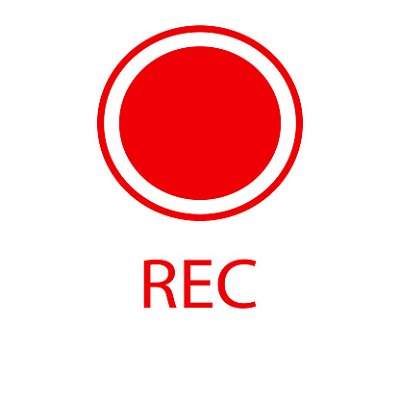
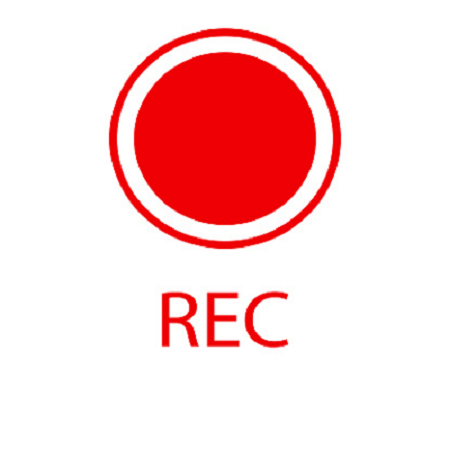
Updates!

diff --git a/test code/gui_test/main.py b/test code/gui_test/main.py
@@ -1,54 +1,65 @@
 import PySimpleGUI as sg
+import serial
 from datetime import datetime
 
 # Great site: https://pysimplegui.readthedocs.io/en/latest/call%20reference/#button-element
 
 # Define the window's contents
 temp = hum = light = gHum = ph = -1.0
+red = green = blue = 0
+picker = False
+down = True
 
 # Faucet control
 f_water = f_fertilizer = False
 
-column_names = [
-    [sg.Frame(title='', background_color='green', relief=sg.RELIEF_RAISED, layout=[
-        [sg.Text(text='Ph', justification='center', font='david 30 normal', size=(10, 2), text_color='dark grey')]]),
-     sg.Frame(title='', relief=sg.RELIEF_SOLID, background_color='brown', layout=[
-         [sg.Text(text='לחות - אדמה', justification='center', size=(10, 2), font='david 30 normal',
-                  text_color='brown')]]),
-     sg.Frame(title='', background_color='yellow', relief=sg.RELIEF_RAISED, layout=[
-         [sg.Text(text='אור', justification='center', font='david 30 normal', size=(10, 2), text_color='yellow')]]),
-     sg.Text(text='לחות - אויר', justification='center', font='david 30 normal', size=(10, 2)),
-     sg.Text(text='טמפרטורה', justification='center', font='david 30 normal', size=(10, 2), text_color='pink')],
-    # New row, now we show values
-    [sg.Frame(title='', relief=sg.RELIEF_SUNKEN, background_color='green', layout=[
-        [sg.Text(text='loading...', justification='center', k='-PH-', font='david 30 normal', size=(10, 2),
-                 text_color='dark grey')]]),
-     sg.Frame(title='', relief=sg.RELIEF_GROOVE, background_color='brown', layout=[
-         [sg.Text(text='loading...', justification='center', k='-gHum-', font='david 30 normal', size=(10, 2),
-                  text_color='brown')]]),
-     sg.Frame(title='', background_color='yellow', relief=sg.RELIEF_RAISED, layout=[
-         [sg.Text(text='loading...', justification='center', k='-light-', font='david 30 normal', size=(10, 2),
-                  text_color='yellow')]]),
-     sg.Text(text='loading...', justification='center', k='-hum-', font='david 30 normal', size=(10, 2)),
-     sg.Text(text='loading...', justification='center', k='-temp-', font='david 30 normal', size=(10, 2),
-             text_color='pink')]]
+ser = serial.Serial('COM9', 9600, timeout=0, parity=serial.PARITY_NONE,
+                        stopbits=serial.STOPBITS_ONE,
+                        bytesize=serial.EIGHTBITS,
+                        xonxoff=False,
+                        rtscts=False,
+                        write_timeout=None,
+                        dsrdtr=False,
+                        inter_byte_timeout=None,
+                        exclusive=None)
 
-column_light = [[sg.Button(button_text='החל', font='david 30 normal'),
-                 sg.Input(tooltip='הכניסו ערך בין 0 ל255', justification='center', k='-BLUE-', size=(10, 1),
-                          default_text='0',
-                          background_color='light blue', font='david 30 normal'),
-                 sg.Text(text=':כחול', justification='center', size=(5, 1), text_color='light blue',
-                         font='david 30 normal'),
+column_names = [
+    [sg.Text(text='Ph', justification='center', font='david 30 normal', size=(10, 2), pad=(10, 10), text_color='black'),
+     sg.Text(text='לחות - אדמה', justification='center', size=(10, 2), pad=(14, 10), font='david 30 normal',
+             text_color='black'),
+     sg.Text(text='אור', justification='center', font='david 30 normal', size=(10, 2), pad=(12, 10),
+             text_color='black'),
+     sg.Text(text='לחות - אויר', justification='center', font='david 30 normal', size=(10, 2), pad=(12, 10),
+             text_color='black'),
+     sg.Text(text='טמפרטורה', justification='center', font='david 30 normal', size=(10, 2), pad=(14, 10),
+             text_color='black')],
+    # New row, now we show values
+    [sg.Frame(title='', relief=sg.RELIEF_RAISED, background_color='grey', layout=[
+        [sg.Text(text='loading...', justification='center', k='-PH-', font='david 30 normal', size=(10, 1),
+                 text_color='black')]]),
+     sg.Frame(title='', relief=sg.RELIEF_RAISED, background_color='grey', vertical_alignment='center', layout=[
+         [sg.Text(text='loading...', justification='center', k='-gHum-', font='david 30 normal', size=(10, 1),
+                  text_color='black')]]),
+     sg.Frame(title='', background_color='grey', relief=sg.RELIEF_RAISED, layout=[
+         [sg.Text(text='loading...', justification='center', k='-light-', font='david 30 normal', size=(10, 1),
+                  text_color='black')]]),
+     sg.Frame(title='', background_color='grey', relief=sg.RELIEF_RAISED, layout=[
+         [sg.Text(text='loading...', justification='center', k='-hum-', font='david 30 normal', size=(10, 1),
+                  text_color='black')]]),
+     sg.Frame(title='', background_color='grey', relief=sg.RELIEF_RAISED, layout=[
+         [sg.Text(text='loading...', justification='center', k='-temp-', font='david 30 normal', size=(10, 1),
+                  text_color='black')]])]]
+
+column_light = [[sg.Button(button_text='החל', font='david 30 normal', k='-UPDATE-'),
+                 sg.Input(default_text='0', tooltip='הכניסו ערך בין 0 ל255', justification='center', k='-BLUE-',
+                          size=(10, 1), background_color='light blue', font='david 30 normal'),
                  sg.Input(tooltip='הכניסו ערך בין 0 ל255', justification='center', k='-GREEN-', size=(10, 1),
-                          default_text='0',
-                          background_color='light green', font='david 30 normal'),
-                 sg.Text(text=':ירוק', justification='center', size=(5, 1), text_color='light green',
-                         font='david 30 normal'),
+                          default_text='0', background_color='light green', font='david 30 normal'),
                  sg.Input(tooltip='הכניסו ערך בין 0 ל255', justification='center', k='-RED-', size=(10, 1),
-                          default_text='0',
-                          background_color='red', font='david 30 normal'),
-                 sg.Text(text=':אדום', justification='center', size=(5, 1), text_color='red', font='david 30 normal'),
-                 sg.Text(text=':תאורה', justification='center', size=(5, 1), font='david 30 normal')]]
+                          default_text='0', background_color='red', font='david 30 normal'),
+                 sg.Text(' או ', font='david 30 normal'),
+                 sg.Text('#000000', font='david 30 normal', visible=False, k='-C-'),
+                 sg.ColorChooserButton('בחר צבע', image_filename='color.png', image_subsample=5, k='-COLOR-', target='-C-')]]
 
 column_btnControls = [
     [sg.Button(k='-WATER-', image_filename='faucet-image-off.png', image_size=(150, 150),
@@ -56,26 +67,39 @@ column_btnControls = [
      sg.Button(k='-FERTILIZER-', image_filename='fertilizer-png-off.png', image_size=(150, 150),
                tooltip='לחצו כאן כדי לפתוח או לסגור את ברז הדשן', image_subsample=3)]]
 
-column_recording = [[sg.Button(image_filename='record-image.png', image_size=(100, 100), k='-RECORD-',
-                               tooltip='לחצו כאן כדי להתחיל הקלטת נתונים', image_subsample=4),
-                     sg.OptionMenu(values=["פעם בדקה", "פעם ב-5 דקות", "פעם ב-10 דקות"], s=30),
-                     sg.Text(text=':תדירות הקלטה', font='david 30 normal'),
-                     sg.Button(image_filename='upload-image.png', image_size=(100, 100), k='-UPLOAD-',
-                               tooltip='לחצו כאן כדי לבחור תכנית פעולה')]]
-
-column_heading = [
-    [sg.Text(text='Still loading...', key='-TIME-', justification='center', font='david 30 normal', size=(10, 2),
-             text_color='light grey'),
-     sg.Text(text='בקרת חממה', justification='center', font='david 30 normal', size=(10, 2), text_color='light green')]]
-
 column_exit = [[sg.Button(button_text='יציאה', font='david 30 normal', k='Quit')]]
 
-layout = [[sg.Column(column_heading, justification='center')],
-          [sg.Column(column_names, justification='center')],
-          [sg.Column(column_light, justification='center', vertical_alignment='center')],
-          [sg.Column(column_btnControls, justification='center', vertical_alignment='center')],
-          [sg.Column(column_recording, justification='center', vertical_alignment='center')],
-          [sg.Column(column_exit, justification='center', vertical_alignment='center')]]
+column_recording = [[sg.Button(image_filename='record-image.png', image_size=(150, 150), k='-RECORD-',
+                               tooltip='לחצו כאן כדי להתחיל הקלטת נתונים', image_subsample=3),
+                     sg.OptionMenu(values=["פעם בדקה", "פעם ב-5 דקות", "פעם ב-10 דקות"], s=30),
+                     sg.Text(text=':תדירות', font='david 30 normal'),
+                     sg.Button(image_filename='upload-image.png', image_size=(150, 150), k='-UPLOAD-',
+                               tooltip='לחצו כאן כדי לבחור תכנית פעולה')]]
+
+layout = [[sg.Column(
+    [[sg.Text(text='Still loading...', key='-TIME-', justification='left', font='david 16 normal', size=(10, 2),
+              text_color='light grey')]], expand_x=True),
+    sg.Button(k='-SETTINGS-', image_filename='settings-png.png', image_size=(50, 50), tooltip='הגדרות',
+              image_subsample=10)],
+    [sg.Column([[sg.Text(text='בקרת חממה', justification='center', font='david 44 normal', size=(10, 1),
+                         text_color='yellow')]], justification='center', vertical_alignment='center',
+               pad=(7, 15))],
+    [sg.Column([[sg.Frame(vertical_alignment='center', title_location=sg.TITLE_LOCATION_TOP_RIGHT,
+                          font='david 30 normal', title=':ערכי חיישנים', layout=[
+            [sg.Column(column_names, justification='center', vertical_alignment='center')]])]],
+               justification='center', pad=(7, 7))],
+    [sg.Column([[sg.Frame(vertical_alignment='center', title_location=sg.TITLE_LOCATION_TOP_RIGHT,
+                          font='david 30 normal', title=':תאורה', layout=[
+            [sg.Column(column_light, justification='center', vertical_alignment='center')]])]],
+               justification='center', pad=(7, 7))],
+    [sg.Column([[sg.Frame(vertical_alignment='center', title_location=sg.TITLE_LOCATION_TOP_RIGHT,
+                          font='david 30 normal', title=':בקרת ברזים', layout=[
+            [sg.Column(column_btnControls, justification='center', vertical_alignment='center')]]),
+                 sg.Frame(vertical_alignment='center', title_location=sg.TITLE_LOCATION_TOP_RIGHT,
+                          font='david 30 normal', title=':אפשרויות הפעלה והקלטה', layout=[
+                         [sg.Column(column_recording, justification='center', vertical_alignment='center')]])]],
+               justification='center', pad=(7, 7))],
+    [sg.Column(column_exit, vertical_alignment='center', justification='left')]]
 
 # Create the window
 window = sg.Window('Greenhouse GUI', layout, resizable=True, no_titlebar=True, keep_on_top=True).Finalize()
@@ -105,6 +129,24 @@ while True:
                                           image_subsample=3)
     elif event == '-UPLOAD-':
         sg.popup_get_file(message='בחר תרחיש', title='Choose scenario', keep_on_top=True)
+
+    elif event == '-SETTINGS-':
+        sg.popup_cancel(title='Need to switch into settings window', keep_on_top=True)
+
+    elif event == '-UPDATE-':
+        if picker:
+            window['-BLUE-'].update(blue)
+            window['-RED-'].update(red)
+            window['-GREEN-'].update(green)
+            picker = False
+        else:
+            red = values['-RED-']
+            blue = values['-BLUE-']
+            green = values['-GREEN-']
+
+    elif event == 'COLOR':
+        picker = True
+
     elif event == 'Quit':
         e_status = sg.popup_yes_no("האם אתם בטוחים שאתם רוצים לצאת? אם תצאו הקלטת הנתונים תיפסק", title='Exit screen',
                                    keep_on_top=True)
@@ -118,5 +160,8 @@ while True:
     window['-light-'].update(str(light) + ' LUX')
     window['-temp-'].update(str(temp) + 'C')
 
+    #Handle serial communications
+    if ser.inWaiting:
+        print(ser.readline())
 # Finish up by removing from the screen
 window.close()
